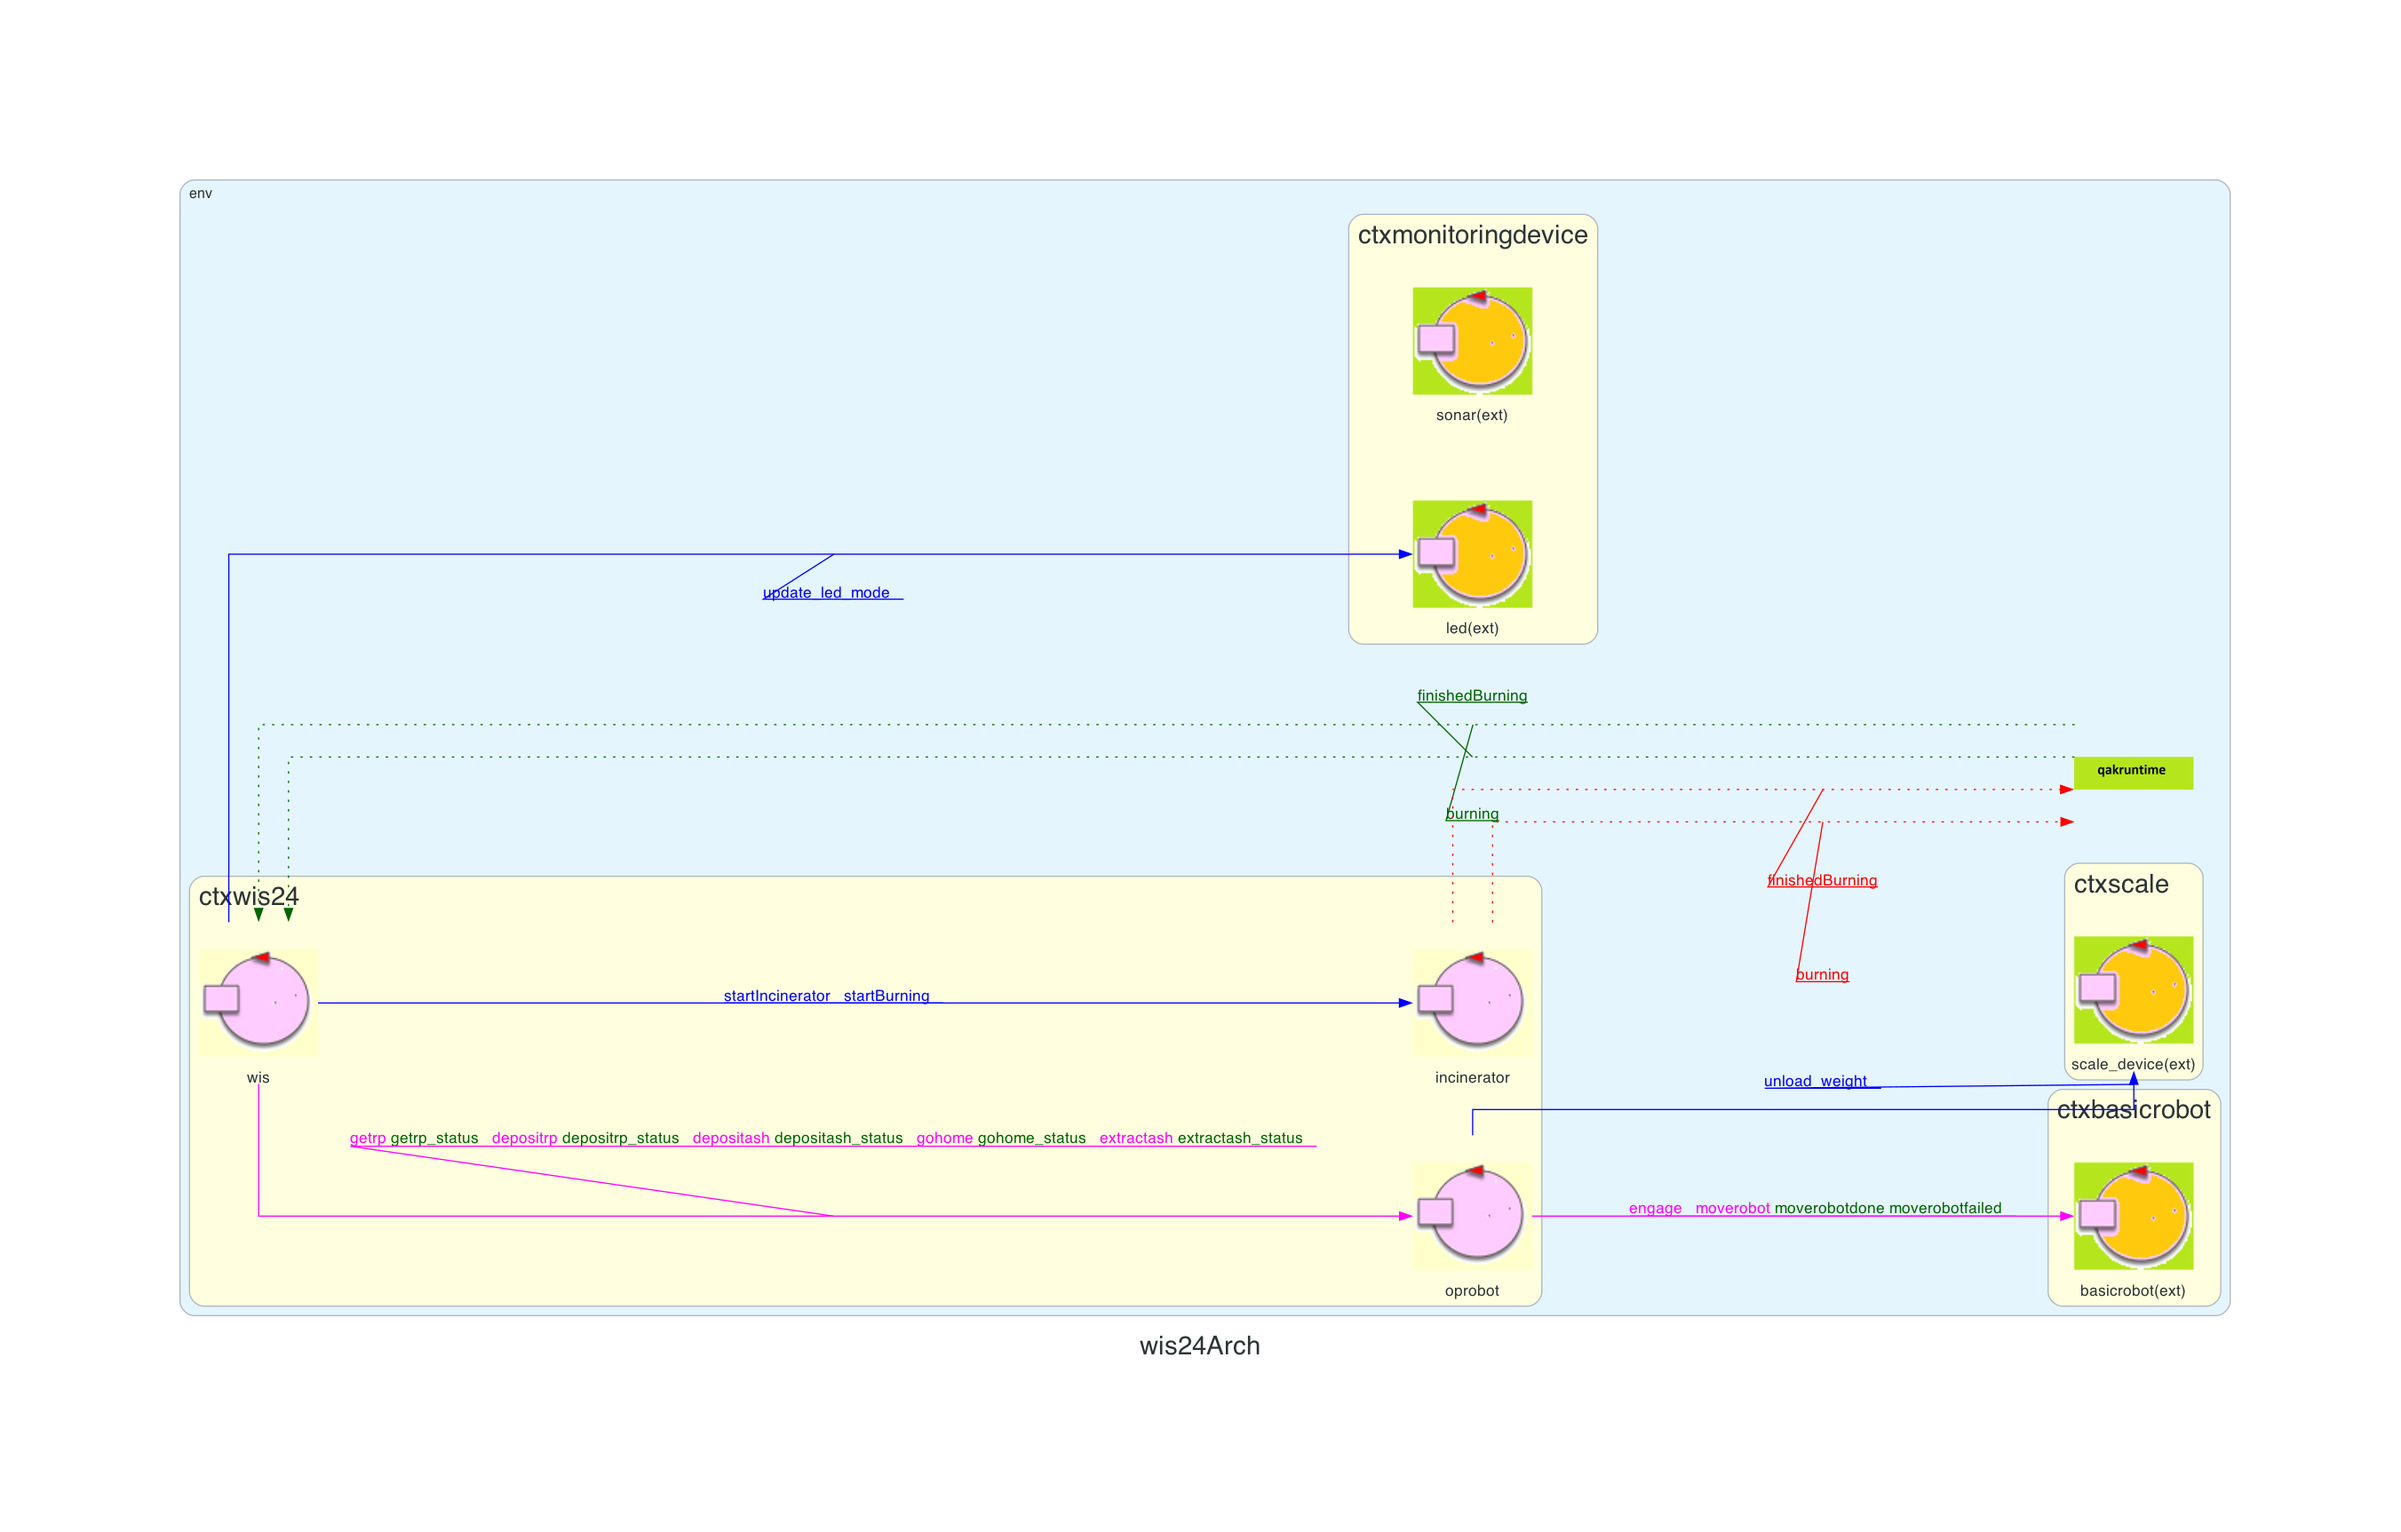
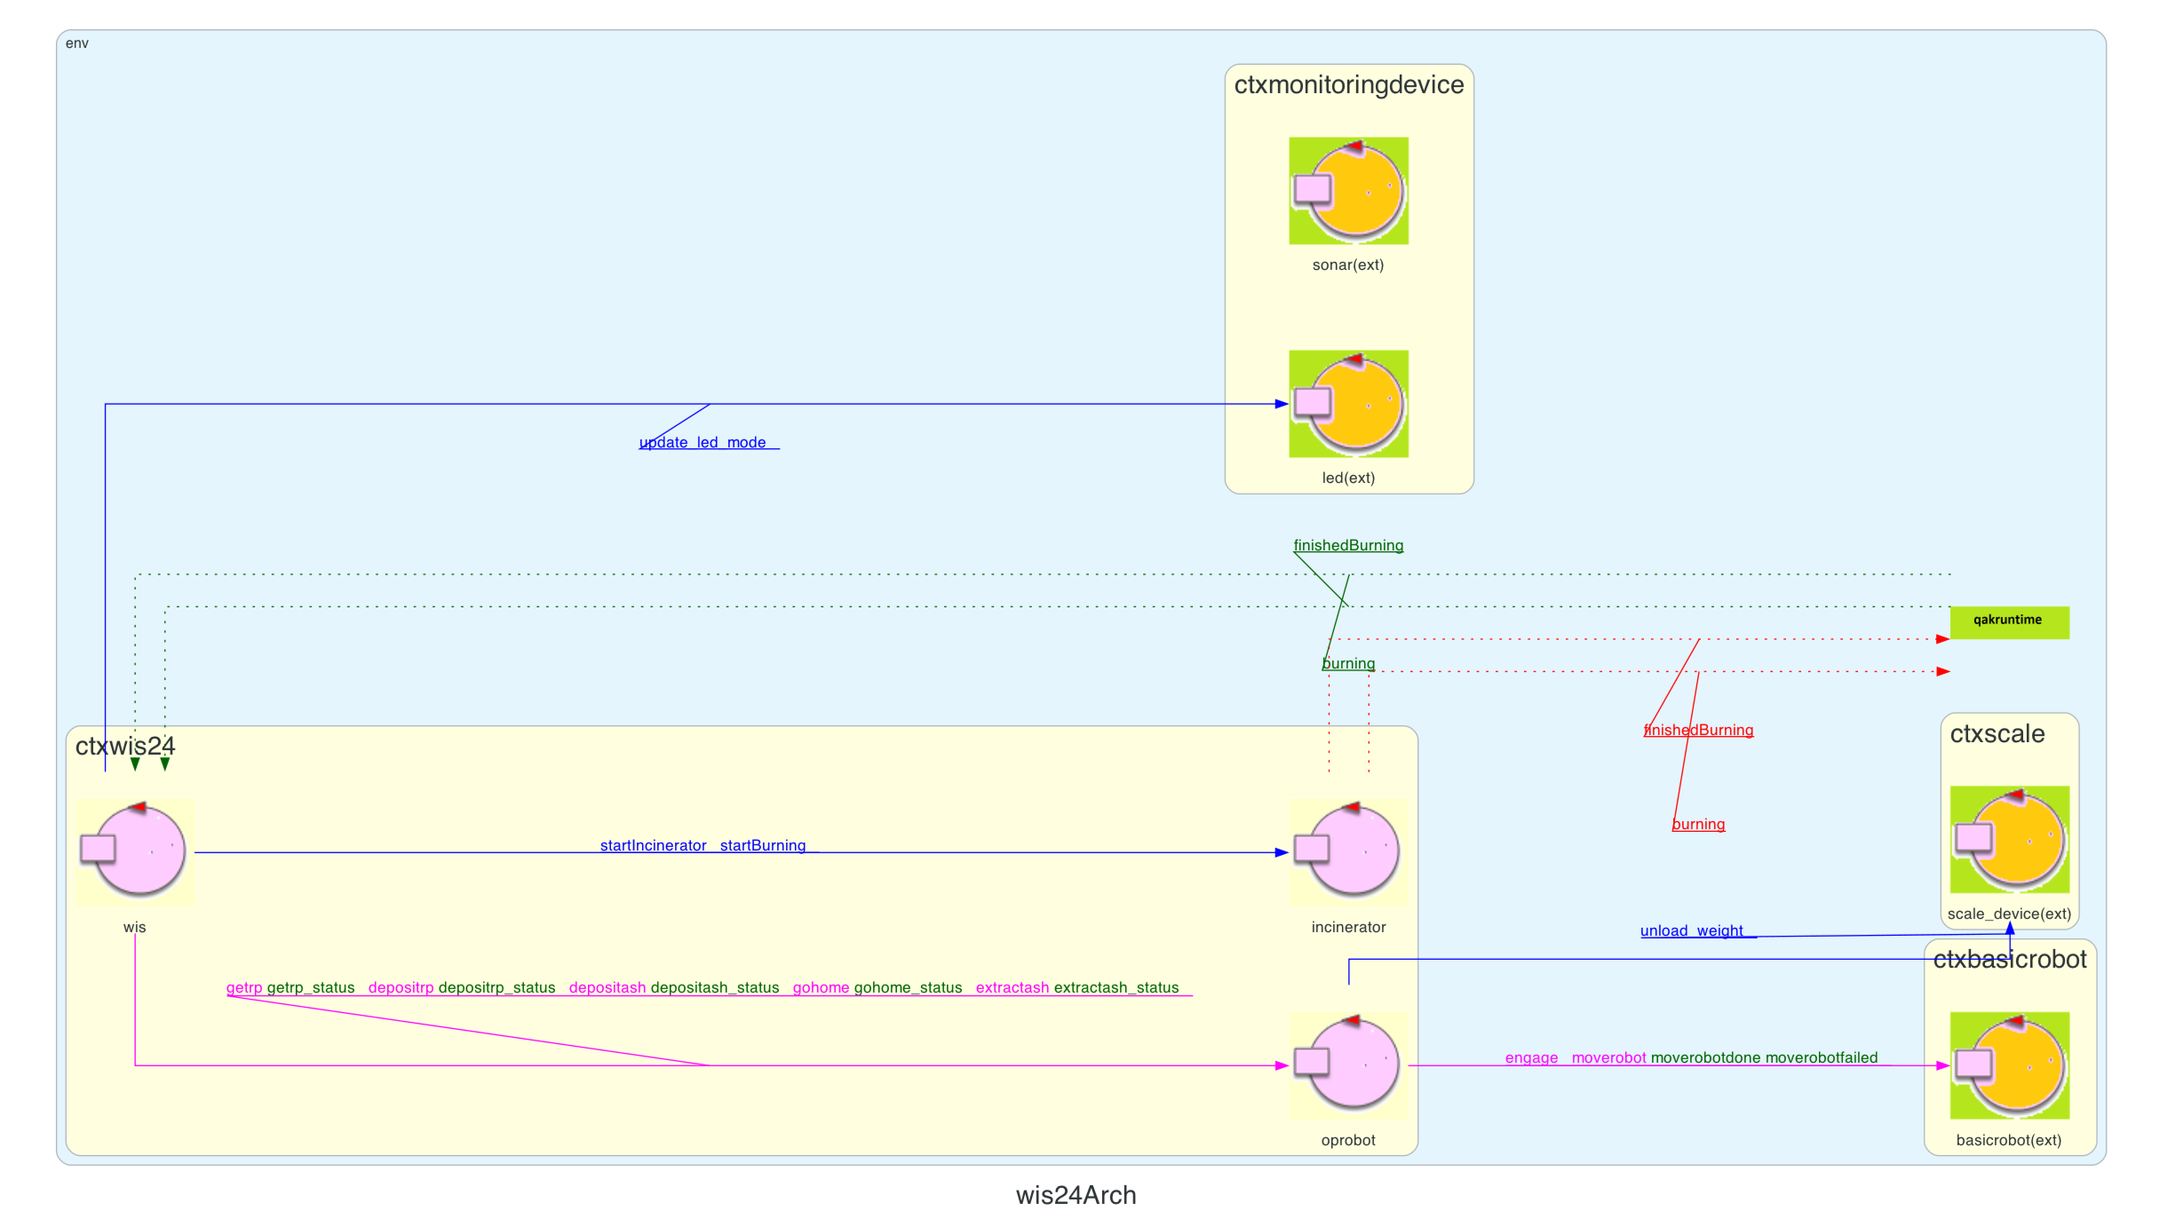
Aggiunte immagini

diff --git a/project/sprint2/userDocs/sprint2.html b/project/sprint2/userDocs/sprint2.html
@@ -116,6 +116,11 @@
 
       <h2>Analisi dei requisiti</h2>
       <div class="remark">
+        <a class="reference internal image-reference flex justify-center"
+          href="./immagini/sprint1_wis24arch_no_observer.png"><img alt="./immagini/sprint1_wis24arch_no_observer.png"
+            class="align-right" src="./immagini/sprint1_wis24arch_no_observer.png" style="width: 90%" /></a>
+      </div>
+      <div class="remark">
         <ul>
           <li>
             <div class="remark-light">
@@ -280,15 +285,18 @@
 
         <a class="reference internal image-reference flex justify-center" href="./immagini/sprint2_wis24arch.png"><img
             alt="./immagini/sprint2_wis24arch.png" class="align-right" src="./immagini/sprint2_wis24arch.png"
-            style="width: 90%" /></a>
+            style="width: 100%" /></a>
 
-        <a class="reference internal image-reference flex justify-center"
+        <div class="flex">
+          <a class="reference internal image-reference flex justify-center"
           href="./immagini/sprint2_monitoringdevicearch.png"><img alt="./immagini/sprint2_monitoringdevicearch.png"
-            class="align-right" src="./immagini/sprint2_monitoringdevicearch.png" style="width: 50%" /></a>
+            class="align-right" src="./immagini/sprint2_monitoringdevicearch.png" style="width: 100%" /></a>
 
-        <a class="reference internal image-reference flex justify-center" href="./immagini/sprint2_scalearch.png"><img
+          <a class="reference internal image-reference flex justify-center" href="./immagini/sprint2_scalearch.png"><img
             alt="./immagini/sprint2_scalearch.png" class="align-right" src="./immagini/sprint2_scalearch.png"
-            style="width: 50%" /></a>
+            style="width: 100%" /></a>
+        </div>
+        
       </div>
 
       <h4>WIS</h4>
